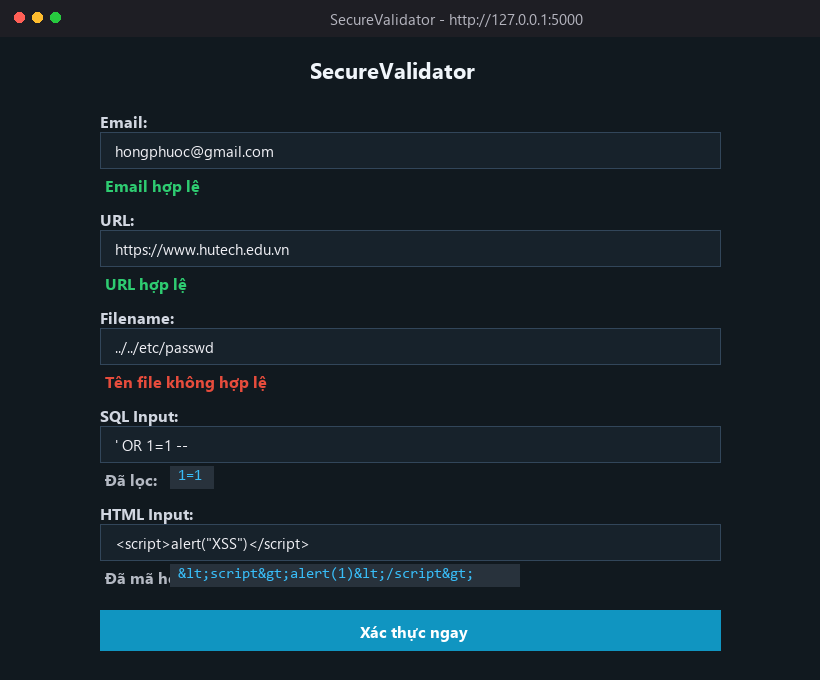
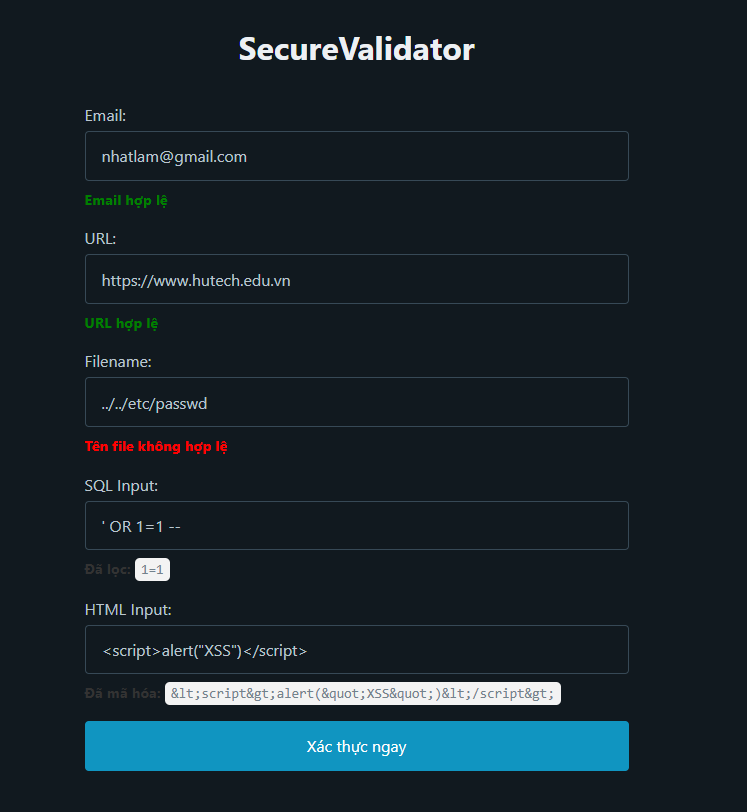
docs: cap nhat anh chup thuc te tu giao dien va log he thong

Changed region(s): [[0.0924, 0.1235, 0.8929, 0.9574], [0.3079, 0.0, 0.7082, 0.1235], [0.0, 0.0, 0.0924, 0.0309]]

diff --git a/buoi1/README.md b/buoi1/README.md
@@ -75,7 +75,7 @@ Tiến hành nhập đồng thời 5 trường dữ liệu mẫu để kiểm tr
 ![Kết quả kiểm thử trên giao diện web Lab 1](./images/lab1_web_test_result.png)
 
 *Giải thích chi tiết từng kết quả*:
-1. **Email (`hongphuoc@gmail.com`)**: Hiển thị **"Email hợp lệ"** (màu xanh) do chuỗi khớp hoàn toàn với mẫu regex.
+1. **Email (`nhatlam@gmail.com`)**: Hiển thị **"Email hợp lệ"** (màu xanh) do chuỗi khớp hoàn toàn với mẫu regex.
 2. **URL (`https://www.hutech.edu.vn`)**: Hiển thị **"URL hợp lệ"** (màu xanh) do sử dụng giao thức HTTPS và có domain rõ ràng.
 3. **Filename (`../../etc/passwd`)**: Hiển thị **"Tên file không hợp lệ"** (màu đỏ). Hệ thống phát hiện chuỗi `..` và `/` của kỹ thuật Path Traversal nhằm đọc trộm file cấu hình Linux, kịp thời từ chối xử lý.
 4. **SQL Input (`' OR 1=1 --`)**: Hiển thị kết quả **"Đã lọc: 1=1"**. Dấu nháy đơn `'`, từ khóa `OR` và phần chú thích `--` đã bị cắt bỏ hoàn toàn, vô hiệu hóa kịch bản bypass authentication.
@@ -98,7 +98,7 @@ Thiết lập Git Pre-commit Hook tự động quét mã nguồn ở tầng clie
 
 ### 3.3. Hình ảnh kiểm thử và giải thích chi tiết
 
-Tạo file `pre-commit-hook-test/bad.py` chứa biến `password = "123456"`. Khi chạy lệnh `git add` và thực hiện `git commit -m "test"`:
+Tạo file `pre-commit-hook-test/bad.py` chứa biến `chuoi mat khau thu nghiem`. Khi chạy lệnh `git add` và thực hiện `git commit -m "test"`:
 
 ![Kết quả Git Hook chặn commit chứa secret](./images/lab2_hook_blocked.png)
 
